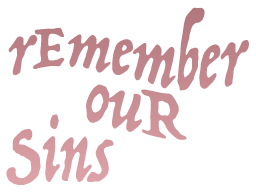
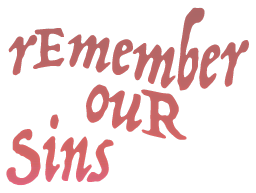
Added grafitti

Changed region(s): [[0.0312, 0.0622, 0.9688, 0.7461], [0.0, 0.5907, 0.4375, 0.9637]]

diff --git a/core/src/mx/itesm/decay/Screens/TestScreen.java b/core/src/mx/itesm/decay/Screens/TestScreen.java
@@ -32,9 +32,11 @@ public class TestScreen extends GenericScreen{
     private World world;
     private Box2DDebugRenderer b2dr;
     private Texture background;
+    private Texture graffiti;
     Clairo clairo;
     Turret turret;
     FatGuy fatGuy;
+
 
     Text text;
 
@@ -71,6 +73,7 @@ public class TestScreen extends GenericScreen{
         fatGuy = new FatGuy(this);
         text = new Text();
         background = new Texture("menu/cd-menu-background.png");
+        graffiti= new Texture("misc/cd-graffiti-ros.png");
         loadMap();
     }
 
@@ -120,6 +123,7 @@ public class TestScreen extends GenericScreen{
         mapRenderer.setView(camera);
         mapRenderer.render();
         batch.begin();
+        batch.draw(graffiti,2400,300);
         turret.draw(batch);
         fatGuy.draw(batch);
         clairo.draw(batch);
